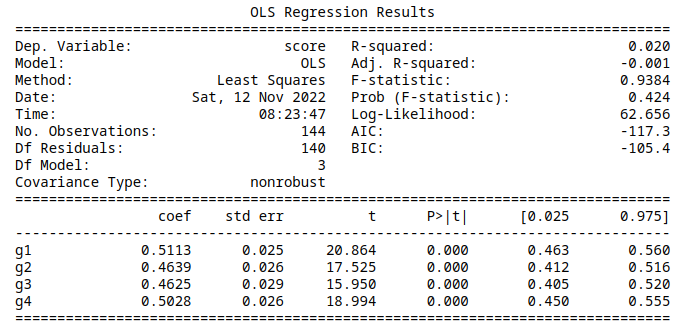
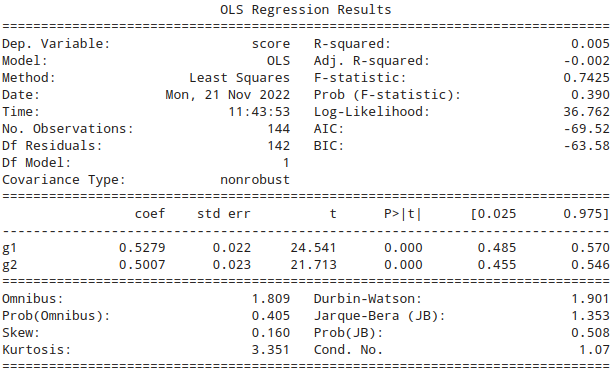
update analysis

Changed region(s): [[0.0, 0.0, 1.0, 1.0]]

diff --git a/hw4.md b/hw4.md
@@ -6,49 +6,78 @@ title: Estimation
 In the Seqer dataset, if we consider just the first MDP played by each participant the MDPs all have 3 states, the transitions were deterministic, and the actions were binary.  Rewards depended only on the next state.  Two states each had reward probability 0.2, while the other state had reward probability 0.8.  The high-reward state and one low-reward state had the same optimal action (both left or both right), while the other state transitioned the same way independent of action.  I will call a state definite if it has an optimal action and indefinite if transition is independent of action.  Note that an optimal action in a definite state leads to a transition to the other definite state.  This leads to twelve different MDPs, because there are 3 options for high reward state, 2 options for optimal action, and 2 options for the indefinite state.  Each participant completed 20 actions, and at each time step saw a diagram of which state they were in.
 
 Let $$a_{ji}$$ be the $$i$$-th action chosen by participant $$j$$, and $$s_{ji}$$ be the $$i$$-th state shown to participant $$j$$. 
-I defined an optimality function $$f(a_{ji},s_{ji})=1_{a_{ji}\text{ was optimal for state }s_{ji}} + .5\cdot{1_{s_{ji} \text{ is indefinite}}}$$ and took $$Y_j = \frac{1}{20} \sum_{i=1}^{20} f(a_{ji}, s_{ji})$$.  This gives a value between 0 and 1, where higher values mean more optimal choices were made.
+I defined an optimality function $$f(a_{ji},s_{ji})=1_{a_{ji}\text{ was optimal for state }s_{ji}} + .5\cdot{1_{s_{ji} \text{ is indefinite}}}$$ and took $$Y_j - \frac{1}{10} \sum_{i=1}^{20} f(a_{ji}, s_{ji})$$.  This gives a value between 0 and 1, where higher values mean more optimal choices were made.  Note that I am only considering the last 10 choices, assuming that the first 10 will be mostly random as people explore the problem.
 
 # Outcome Regression
 If we encode the MDP type using a one-hot encoding (for MDP type $$k$$ we form a vector with 1 in the $$k$$-th position and 0 everywhere else), we can then perform outcome regression.  I used an ordinary least squares linear model from the Python package `statsmodels`.  In the end I implemented 7 models and then used the Akaike Information Criterion (AIC) to assess model fit.  Note that AIC values are relative, with lower being better, and lower by >2 is significantly better.
 
 We have between 7 and 15 trials of each MDP type.  As a result, I tried grouping the data based on the three characteristics identified previously to overcome some of the instability that occurs with such small sample sizes.
 
+## Model 0
+Treating each of the 12 MDP types separately results in an AIC of -71.85.  The summary data is below.  
+
+![Model 0](/assets/images/reg0.png)
+
+
 ## Model 1
-Treating each of the 12 MDP types separately results in an AIC of -108.3.  The summary data is below.  
+If we assume that participants recognized that the orientation of the diagram was irrelevant so we can reorder the states to remove the stratification by placement of the high reward state, we can group the MDP types into 4 groups of 3.  Fitting a linear regression in the same manner as before results in an AIC of -67.30.  This is significantly worse than the prior model.  The summary data is below.
 
+![Model 1](/assets/images/reg1.png)
 
-![Summary statistics for Model 1](/assets/images/reg1.png)
 
 ## Model 2
-If we assume that participants recognized that the orientation of the diagram was irrelevant so we can reorder the states to remove the stratification by placement of the high reward state, we can group the MDP types into 4 groups of 3.  Fitting a linear regression in the same manner as before results in an AIC of -117.3.  This is a significant improvement over the prior model.  The summary data is below.
+If we assume participants are not affected by which action is optimal, we get six pairs of MDPs.  This results in an AIC of -77.72.  Therefore Model 2 is significantly better. The summary data is below.
 
-
-![Summary statistics for Model 2](/assets/images/reg2.png)
+![Model 3](/assets/images/reg3.png)
 
 ## Model 3
-If we assume participants are not affected by which action is optimal, we get six pairs of MDPs.  This results in an AIC of -114.1.  Therefore Model 2 is significantly better. The summary data is below.
+If we assume that the position of the indefinite state is irrelevant, we again arrive at six pairs of MDPs.  This gives an AIC of -66.24, so again Model 2 is significantly better. The summary data is below.
 
-![Summary statistics for Model 3](/assets/images/reg4.png)
+![Model 6](/assets/images/reg6.png)
 
 ## Model 4
-If we assume that the position of the indefinite state is irrelevant, we again arrive at six pairs of MDPs.  This gives an AIC of -112.8, so again Model 2 is significantly better. The summary data is below.
+Further reducing the categories by assuming that only the optimal action is relevant gives an AIC of -69.52, which is again worse than Model 2. The summary data is below.
 
-![Summary statistics for Model 4](/assets/images/reg7.png)
+![Model 2](/assets/images/reg2.png)
 
 ## Model 5
-Further reducing the categories by assuming that only the optimal action is relevant gives an AIC of -118.5, which is not a significant improvement over Model 2. However, neither is Model 2 significantly better than Model 5. The summary data is below.
+If we instead pay attention only to the location of the high reward state, we find an AIC of -67.25.  This is again worse than Model 2. The summary data is below.
 
-![Summary statistics for Model 5](/assets/images/reg3.png)
+![Model 5](/assets/images/reg5.png)
 
 ## Model 6
-If we instead pay attention only to the location of the high reward state, we find an AIC of -116.7.  This is similar to Models 2 and 5. The summary data is below.
+Finally, if we consider just the location of the indefinite state relative to the high-reward state, we get an AIC of -70.51. The summary data is below.
 
-![Summary statistics for Model 6](/assets/images/reg6.png)
-
-## Model 7
-Finally, if we consider just the location of the indefinite state relative to the high-reward state, we get an AIC of -121.3. This is significantly better than any other model. The summary data is below.
-
-![Summary statistics for Model 7](/assets/images/reg5.png)
+![Model 4](/assets/images/reg4.png)
 
 # Results
-Since we have a randomized control trial, and only look at the first MDP, identification is a straight forward application of the usual assumptions.  With the linear regression model, it amounts to taking the difference of the coefficients of the group $$m_j$$ belongs to and the group $$m_j'$$ belongs to.  Using Model 7 since it had the lowest AIC by far, we therefore arrive at $$\mathbb{E}[Y(M_1)-Y(M_2)] \approx \mathbb{E}[Y|M_1] - \mathbb{E}[Y|M_2] = 0.5074-0.4633 = 0.0441$$ where $$M_1$$ is any of the MDPs where the indefinite state is counterclockwise from the high reward state and $$M_2$$ is any of the MDPs where the indefinite state is clockwise from the high reward state.  This implies people make more optimal choices when the indefinite state is counterclockwise from the high reward state.
+Since we have a randomized control trial, and only look at the first MDP, identification is a straight forward application of the usual assumptions.  With the linear regression model, it amounts to taking the difference of the coefficients of the group $$m_j$$ belongs to and the group $$m_j'$$ belongs to.  Using Model 3 since it was the best model, we arrive at 
+
+|--------|-----|-----------|------------|-------------|------------|------------|-------------|
+|        |     |           |            |    $$m_j'$$ |            |            |             |
+|--------|-----|-----------|------------|-------------|------------|------------|-------------|
+|        |     |   g1      |    g2      |    g3       |   g4       |   g5       |   g6|
+|--------|-----|-----------:|------------:|-------------:|------------:|------------:|-------------:|
+|        |g1   |   +0.0000 |    +0.1074 |    +0.1068  |   -0.0528  |   -0.0058  |   -0.0462|
+|        |g2   |   -0.1074 |    +0.0000 |    -0.0006  |   -0.1602  |   -0.1132  |   -0.1536|
+|$$m_j$$ |g3   |   -0.1068 |    +0.0006 |    +0.0000  |   -0.1596  |   -0.1126  |   -0.1530|
+|        |g4   |   +0.0528 |    +0.1602 |    +0.1596  |   +0.0000  |   +0.0470  |   +0.0066|
+|        |g5   |   +0.0058 |    +0.1132 |    +0.1126  |   -0.0470  |   +0.0000  |   -0.0404|
+|        |g6   |   +0.0462 |    +0.1536 |    +0.1530  |   -0.0066  |   +0.0404  |   +0.0000|
+|--------|-----|-----------|------------|-------------|------------|------------|-------------|
+
+where the groups have the following characteristics:
+
+|-----|-----------------------|-----------------------------------------|----|
+|        |high   |        indefinite |    coefficient    |
+|-----|:-----------------------:|-----------------------------------------|----|
+|g1      |0                    |       counter-clockwise| 0.5250 |
+|g2      |2                     |      clockwise        | 0.4176 |
+|g3     | 1                      |     counter-clockwise| 0.4182 |
+|g4    |  0                       |    clockwise        | 0.5778 |       
+|g5   |   2                        |   counter-clockwise| 0.5308 |
+|g6  |    1                         |  clockwise        | 0.5712 |
+|-----|-----------------------|-----------------------------------------|
+
+
+It was suprising to me that ignoring the optimal action led to a better model, because I thought it would be the dominant factor and mediate the effect of the relative location of the indefinite state.  There does seem to be 3 groupings in the current model, but unifying factors in the groupings are not apparent to me at this time.
